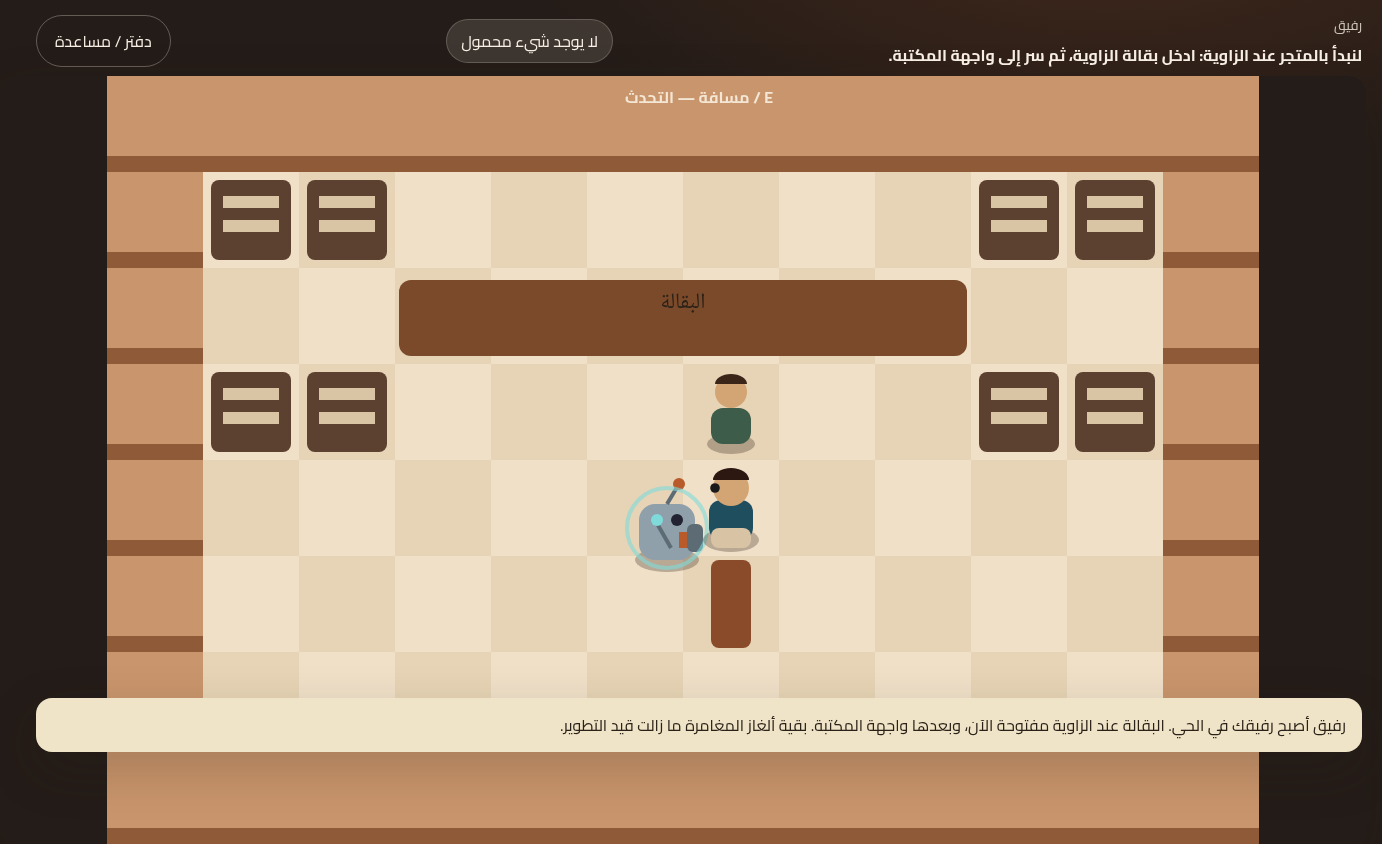
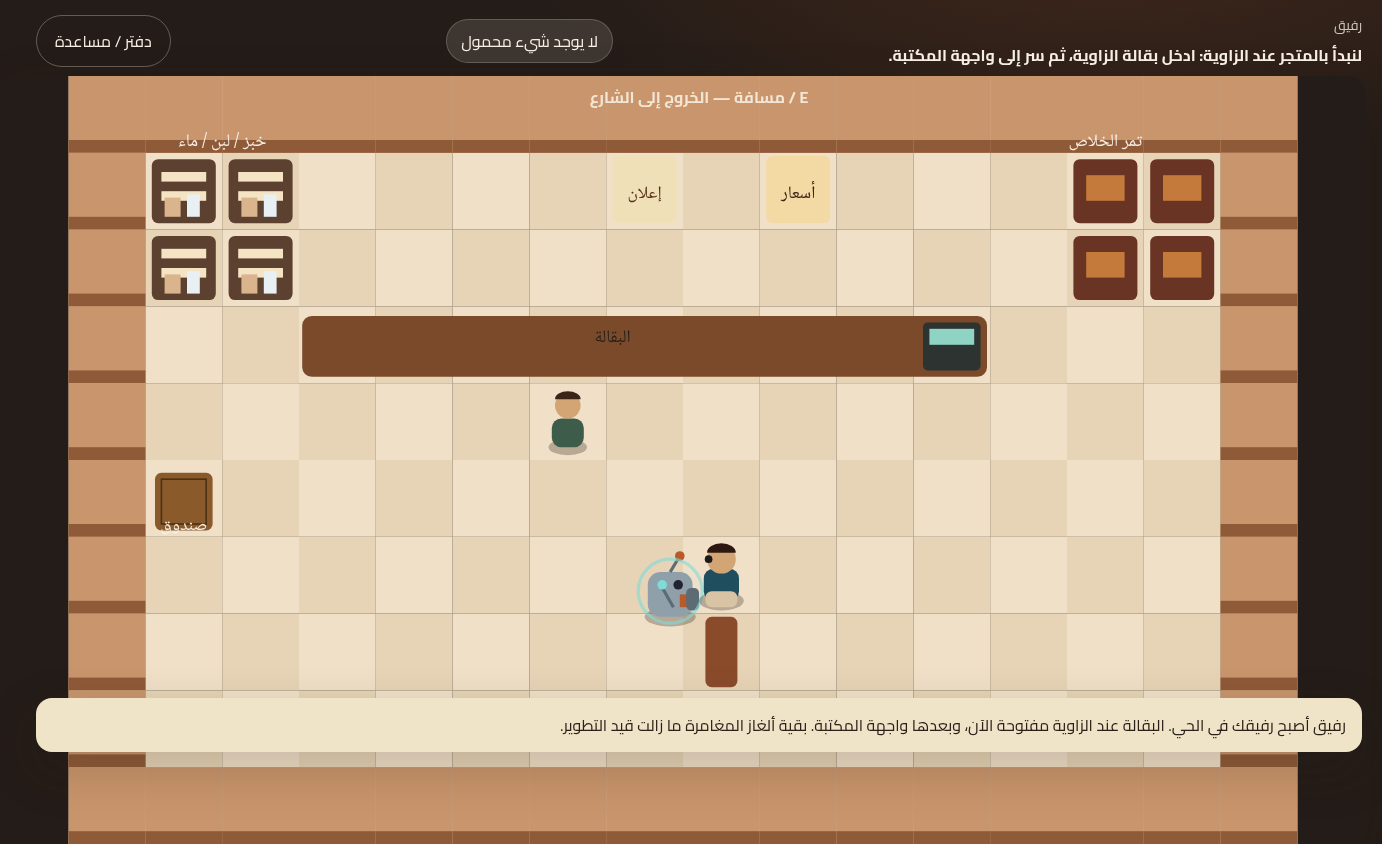
Record slice 03 evidence and clear leftover lookup copy on success.
Adds evidence/03 screenshots and check logs from Chrome 1366/1920 on preview and dev. Shop e2e now captures the shopkeeper thanks line, and the optional lookup note is no longer left on later overlays.

Changed region(s): [[0.0311, 0.0924, 0.9645, 0.8318], [0.0311, 0.8934, 0.9645, 1.0], [0.4356, 0.0924, 0.5912, 0.1232]]

diff --git a/app/e2e/shop.spec.ts b/app/e2e/shop.spec.ts
@@ -34,7 +34,7 @@ test('help-accepted through shop success with physical actions', async ({ page }
   await expect(page.getByTestId('shelf-record-west')).toContainText('لبن');
   await expect(page.getByTestId('shelf-record-west')).toContainText('ماء');
   await expect(page.getByTestId('shelf-record-west')).toContainText('متوفر');
-  await expect(page.getByTestId('shelf-record-west')).not.toContainText('مانجو');
+  await expect(page.getByTestId('shelf-record-west')).toContainText('لا يوجد عصير مانجو');
   await page.waitForTimeout(200);
   await page.screenshot({ path: path.join(evidenceDir, 'shelf-record.png'), fullPage: true });
   await page.getByTestId('inspect-close').click();
@@ -51,7 +51,7 @@ test('help-accepted through shop success with physical actions', async ({ page }
   await interactAt(page, 'shop', WORLD_POS.shelfEast.x, WORLD_POS.shelfEast.y);
   await expect(page.getByTestId('shelf-record-east')).toContainText('تمر الخلاص');
   await expect(page.getByTestId('shelf-record-east')).toContainText('٩');
-  await expect(page.getByTestId('shelf-record-east')).not.toContainText('مانجو');
+  await expect(page.getByTestId('shelf-record-east')).toContainText('لا يوجد مانجو');
   await page.getByTestId('inspect-close').click();
 
   await interactAt(page, 'shop', WORLD_POS.priceList.x, WORLD_POS.priceList.y);
@@ -96,7 +96,7 @@ test('help-accepted through shop success with physical actions', async ({ page }
   await page.getByTestId('inspect-close').click();
   await interactAt(page, 'shop', WORLD_POS.shopkeeper.x, WORLD_POS.shopkeeper.y);
   await clickChoice(page, 'dialogue-choice-correct_dates');
-  await expect(page.getByTestId('dialogue-text')).toMatch(/ماء|نفد|خمسة/);
+  await expect(page.getByTestId('dialogue-text')).toContainText(/ماء|نفد|خمسة/);
   await clickChoice(page, 'dialogue-choice-verify_later');
   await interactAt(page, 'shop', WORLD_POS.shelfWest.x, WORLD_POS.shelfWest.y);
   await page.getByTestId('inspect-close').click();
@@ -110,18 +110,18 @@ test('help-accepted through shop success with physical actions', async ({ page }
   await page.getByTestId('crate-ask-shopkeeper').click();
   await expect(page.getByTestId('game-root')).toHaveAttribute('data-evidence', '1.1,1.2,1.3,1.6');
   await expect(page.getByTestId('dialogue-text')).toContainText('شكراً');
+  await page.waitForTimeout(200);
+  await page.screenshot({ path: path.join(evidenceDir, 'success.png'), fullPage: true });
   await advanceDialogue(page);
   await expect(page.getByTestId('dialogue-text')).toContainText('طرد');
   await advanceDialogue(page);
-  await expect(page.getByTestId('dialogue-text')).toMatch(/المكتبة|الفجر/);
+  await expect(page.getByTestId('dialogue-text')).toContainText(/المكتبة|الفجر/);
   await advanceDialogue(page);
   await skipExplainIfOpen(page);
   await expect(page.getByTestId('game-root')).toHaveAttribute('data-shop-quest', 'helped');
   await page.getByTestId('help-button').click();
   await expect(page.getByTestId('journal-events')).toContainText('طرد');
   await page.getByTestId('resume-button').click();
-  await page.waitForTimeout(200);
-  await page.screenshot({ path: path.join(evidenceDir, 'success.png'), fullPage: true });
   await assertNoLessonUi(page);
 
   const done = await getState(page);
@@ -137,7 +137,7 @@ test('help-accepted through shop success with physical actions', async ({ page }
   await expect(page.getByTestId('dialogue-text')).toContainText('طرد الإصلاح');
   await closeOverlay(page);
   await interactAt(page, 'street', WORLD_POS.robot.x, WORLD_POS.robot.y);
-  await expect(page.getByTestId('dialogue-text')).toMatch(/المكتبة|الفجر/);
+  await expect(page.getByTestId('dialogue-text')).toContainText(/المكتبة|الفجر/);
 });
 
 test('shop overlays stay inside 1366 and 1920 viewports', async ({ page }) => {

diff --git a/app/src/engine/shop.ts b/app/src/engine/shop.ts
@@ -369,6 +369,7 @@ export function finishShopSuccess(state: GameState): GameState {
     mode: 'playing',
     dialogueNode: null,
     explainTopic: null,
+    robotUnderstood: null,
     shopQuest: quest,
     journalEvents: recordEvent(state.journalEvents, 'shop_helped'),
     storyObjective: OBJECTIVES.repairLead,
@@ -506,7 +507,12 @@ export function reduceCrateDecide(state: GameState, who: 'shopkeeper' | 'robot')
     shopFeedback: null,
   });
   if (allShopEvidence(next.evidence)) {
-    return { ...next, mode: 'dialogue', dialogueNode: 'shop_success_thanks' };
+    return {
+      ...next,
+      mode: 'dialogue',
+      dialogueNode: 'shop_success_thanks',
+      robotUnderstood: null,
+    };
   }
   return {
     ...next,
@@ -578,6 +584,7 @@ export function skipExplain(state: GameState): GameState {
     ...state,
     mode: 'playing',
     explainTopic: null,
+    robotUnderstood: null,
     storyObjective: shopObjective(state.shopQuest),
   };
 }

diff --git a/evidence/03/browser-checks.md b/evidence/03/browser-checks.md
@@ -1,0 +1,38 @@
+# T04 browser checks — slice 03
+
+Recorded 2026-09-09 on the Cloud Agent VM.
+
+## Environment that was tested
+
+| Item | Value |
+|---|---|
+| OS | Ubuntu (Linux 6.12.94+ x86_64) |
+| Browser | Google Chrome 148.0.7778.96 (`/usr/bin/google-chrome`) |
+| Playwright | `@playwright/test` 1.63, `executablePath=/usr/bin/google-chrome`, `--no-sandbox` |
+| App servers | Vite 6.4.3 **dev** `http://127.0.0.1:5173` and **preview** `http://127.0.0.1:4173` / `4174` of `npm run build` |
+
+## Results
+
+All of the following Playwright files passed on **both** the development server and the production preview (21 tests each run):
+
+- `e2e/journey.spec.ts` — slice 01 opening still works on a fresh storage context; `data-evidence` stays empty after help accepted (opening does not demonstrate 1.1).
+- `e2e/negative.spec.ts` — blank/overlong names; markup-like names as text; exit without bag; wall block; held Space; postpone/reopen; typing does not move the player.
+- `e2e/neighborhood.spec.ts` — checkpoint → shop → street → library, companion present, walls block, no lesson UI.
+- `e2e/save.spec.ts` — reload resume; NPC postpone persist; corrupt primary → recovered notice; `storage-warning`; بداية جديدة.
+- `e2e/privacy.spec.ts` — name absent from URL/title/console; `rafiq.adventure.v1` present; no `learnai*` keys.
+- `e2e/viewports.spec.ts` — 1366×768 and 1920×1080 with names `عبد الرحمن الطويل الأحمدي` and `Sara علي-Khan`.
+- `e2e/shop.spec.ts` — help-accepted through shop success with physical actions. Screenshots: `shelf-record.png`, `calculator.png`, `notice.png`, `success.png`. Overlay bounds at 1366 and 1920: `overlays.png`.
+- `e2e/shop-retry.spec.ts` — trusting robot date price 18 fails; retry succeeds; second-claim UI does not name the west shelf or water card; no trap.
+
+Console errors observed in those viewport tests: **none**.
+
+Shop cards look like paper records (not quizzes). Calculator result 17. Posted notice shows ١٧ and a source-backed fact without presenting ٢٠ / تمر ١٨ / ماء نفد as true. After success the shopkeeper thanks the player and the HUD lead is the repair parcel; the library inner door stays locked.
+
+No sound, pixel-perfect click, or timed reaction is required.
+
+## Untested (explicit)
+
+- Firefox, Microsoft Edge, and Safari
+- Windows and macOS desktops
+- Mobile viewports (out of slice)
+- Hardware Arabic keyboard (physical `KeyW`/`KeyA`/`KeyS`/`KeyD` codes were used; a physical Arabic keyboard was not attached)
